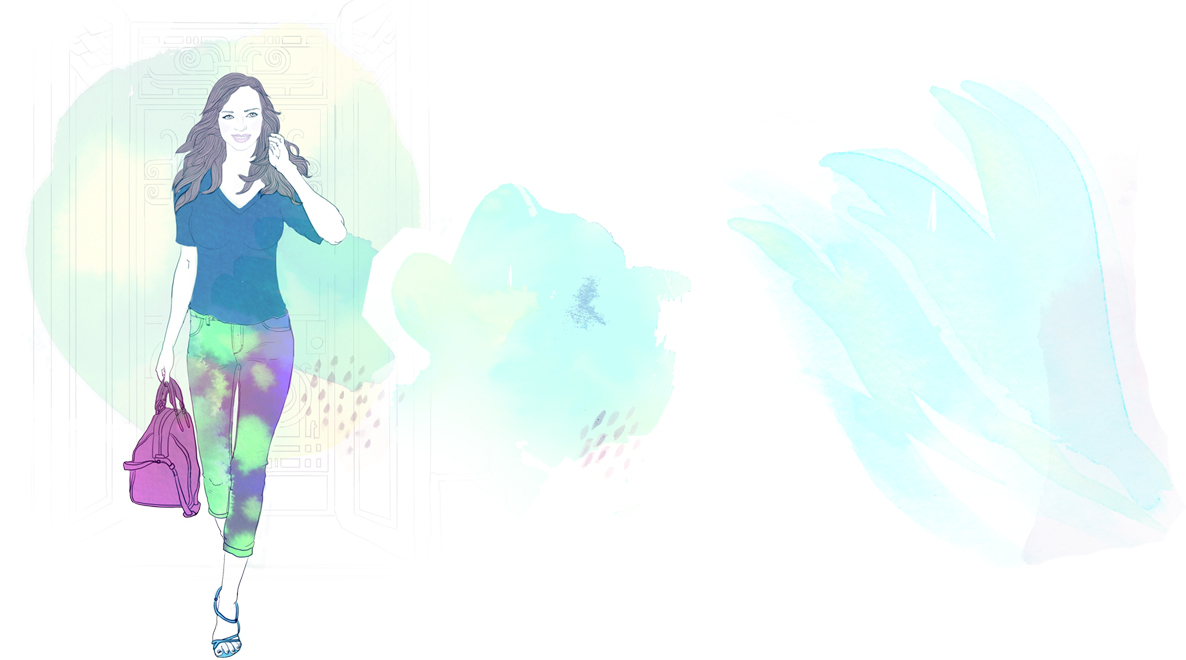
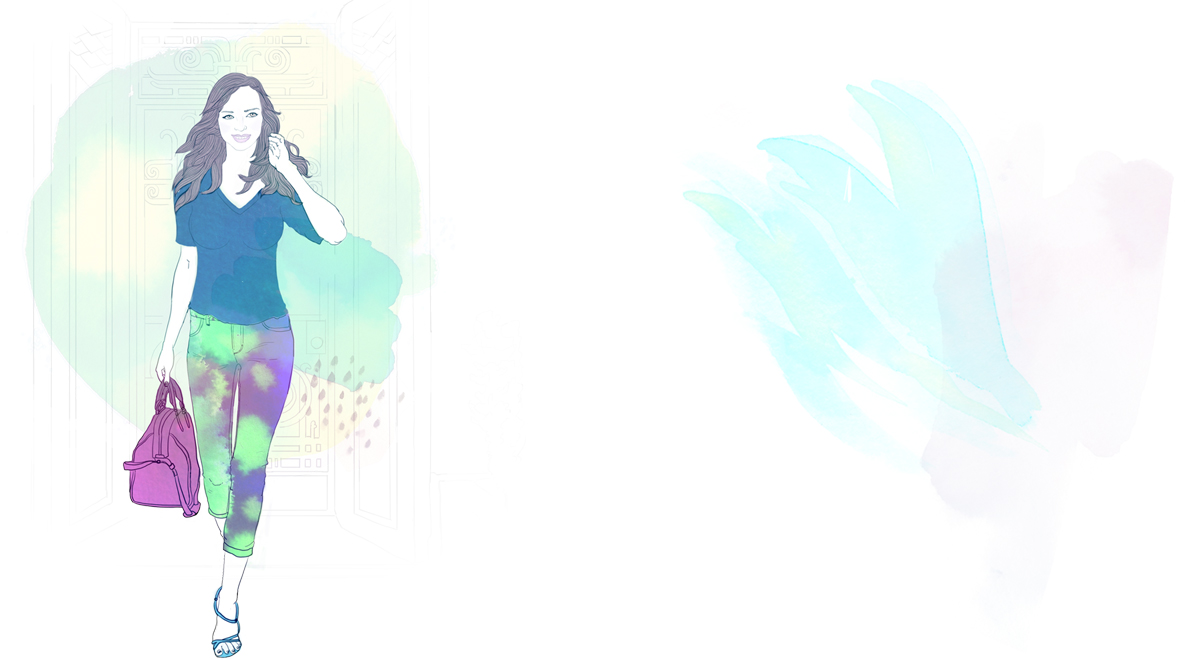
Modificaciones al home

Changed region(s): [[0.5616, 0.1212, 0.9983, 0.7879], [0.2808, 0.2727, 0.5927, 0.697], [0.6863, 0.3636, 0.7175, 0.3939]]

diff --git a/less/style.less b/less/style.less
@@ -501,18 +501,19 @@ src: url('../fonts/entypo.woff'),
 			margin-bottom:1em;}
 	}
 	.box_home_2{
-		background: none repeat scroll 0 0 rgba(222, 193, 230, 0.3);
+		background: none repeat scroll 0 0 rgba(236, 156, 207, 0.3);
+		color: #913B71;
 		.border_radius(@radius:300px);
 		float: right;
-		height: 60px;
-		padding: 80px 20px 60px;
-		width: 160px;
-		color:#913b71;
-		font-size: 1em;
+		font-size: 1.3em;
 		font-weight: 300;
-		margin-right: -45px;
-		.CAPS;
-		span{
+		height: 80px;
+		margin-right: -75px;
+		margin-top: -60px;
+		padding: 90px 0 50px;
+		text-transform: uppercase;
+		width: 220px;
+			span{
 			font-weight:400;
 			font-size: 1.5em;
 			}
@@ -520,14 +521,17 @@ src: url('../fonts/entypo.woff'),
 		
 	}
 	.box_home_3{
+	   background-color: rgba(165, 236, 211, 0.3);
 		float: right;
-		height: 60px;
-		padding: 70px 20px;
-		width: 160px;
-		margin-top: 170px;
-		margin-right: -180px;	
-		font-size:1.5em;
-		font-weight:300;
+		font-size: 1.4em;
+		font-weight: 300;
+		height: 90px;
+		margin-right: -160px;
+		margin-top: 140px;
+		padding: 60px 20px 10px;
+		text-transform: uppercase;
+		width: 120px;
+		.border_radius(@radius:300px);
 		.CAPS;
 		span{
 			font-weight:400;}
@@ -537,6 +541,7 @@ src: url('../fonts/entypo.woff'),
 		bottom: -20px;
 		position: absolute;
 		right: 260px;
+		
 			
 		}
 

diff --git a/themes/bootstrap/views/site/index.php b/themes/bootstrap/views/site/index.php
@@ -22,10 +22,10 @@ $this->pageTitle=Yii::app()->name;
           <h1>¡Bienvenid@s!</h1>
           <p>Recomendaciones personalizadas adaptadas a ti. Una nueva manera de renovar tu clóset. </p>
           <a href="<?php echo Yii::app()->getBaseUrl(); ?>/user/registration" title="Registrate" class="btn btn-danger btn-large">¡Regístrate YA!</a>
-          <p class="CAPS"> Siguenos en:</p>
+          <p class="CAPS"> Síguenos en:</p>
           <div class="clearfix"> <a href="https://www.facebook.com/Personaling" title="Personaling en facebook"><img width="30" height="30" src="images/icon_facebook_2.png" title="personaling en pinterest"></a> <a href="https://twitter.com/personaling" title="Personaling en Pinterest"> <img width="30" height="30" src="images/icon_twitter_2.png" title="personaling en pinterest"></a> <a href="https://pinterest.com/personaling/" title="pinterest"><img width="30" height="30" src="images/icon_pinterest_2.png" title="Personaling en Pinterest"></a> <a href="http://instagram.com/personaling" title="Personaling en Instagram"><img width="30" height="30" src="images/icon_instagram_2.png" title="Personaling en Pinterest"></a> </div>
         </div>
-        <div class="box_home_2 hidden-phone"> <span>¡Tu Personal</span> <br/>Shopper Digital! </div>
+        <div class="box_home_2 hidden-phone"> ¡Tu <span>Personal <br/>Shopper</span> Digital! </div>
         <div class="box_home_3 hidden-phone"> Regístrate <br/><span>¡Gratis!</span></div>
         <div class="box_home_4 hidden-phone"> <a href="http://personaling.com/magazine/" title="Magazine" target="_blank" class="btn margin_top btn-small">IR A LA MAGAZINE</a></div>
       </div>
@@ -95,8 +95,12 @@ $this->pageTitle=Yii::app()->name;
           </li>
         </ul>
       </li>
-      <li><a href="docs/Personaling_features.pdf">Funcionalidades en este versión (Test v.15) (PDF)</a> <br/>
-        <br/>
+      <li>Links útiles:
+      <ul>
+      	<li><a href="docs/Personaling_features.pdf">Funcionalidades en este versión (Test v.15) (PDF)</a></li>
+      	<li><a href="http://www.youtube.com/watch?v=xNj80lfwpEs" target="_blank" title="Video Personaling">Video explicativo</a></li>
+        <li><a href="http://prezi.com/aw80fg4hohva/presentacion-e-show-2013-esade-personalingcom/?auth_key=c9f14f42a3a3ac0d5af176070333aa77f2c4d1e5" target="_blank" title="Presentacion de personaling">Presentación del negocio (PREZI)</a><br /><br/></li>
+      </ul>
       </li>
       <li><a href="http://personaling.com/test15/user/login" title="Login page" class="btn btn-danger">Página para iniciar sesión</a></li>
     </ul>
